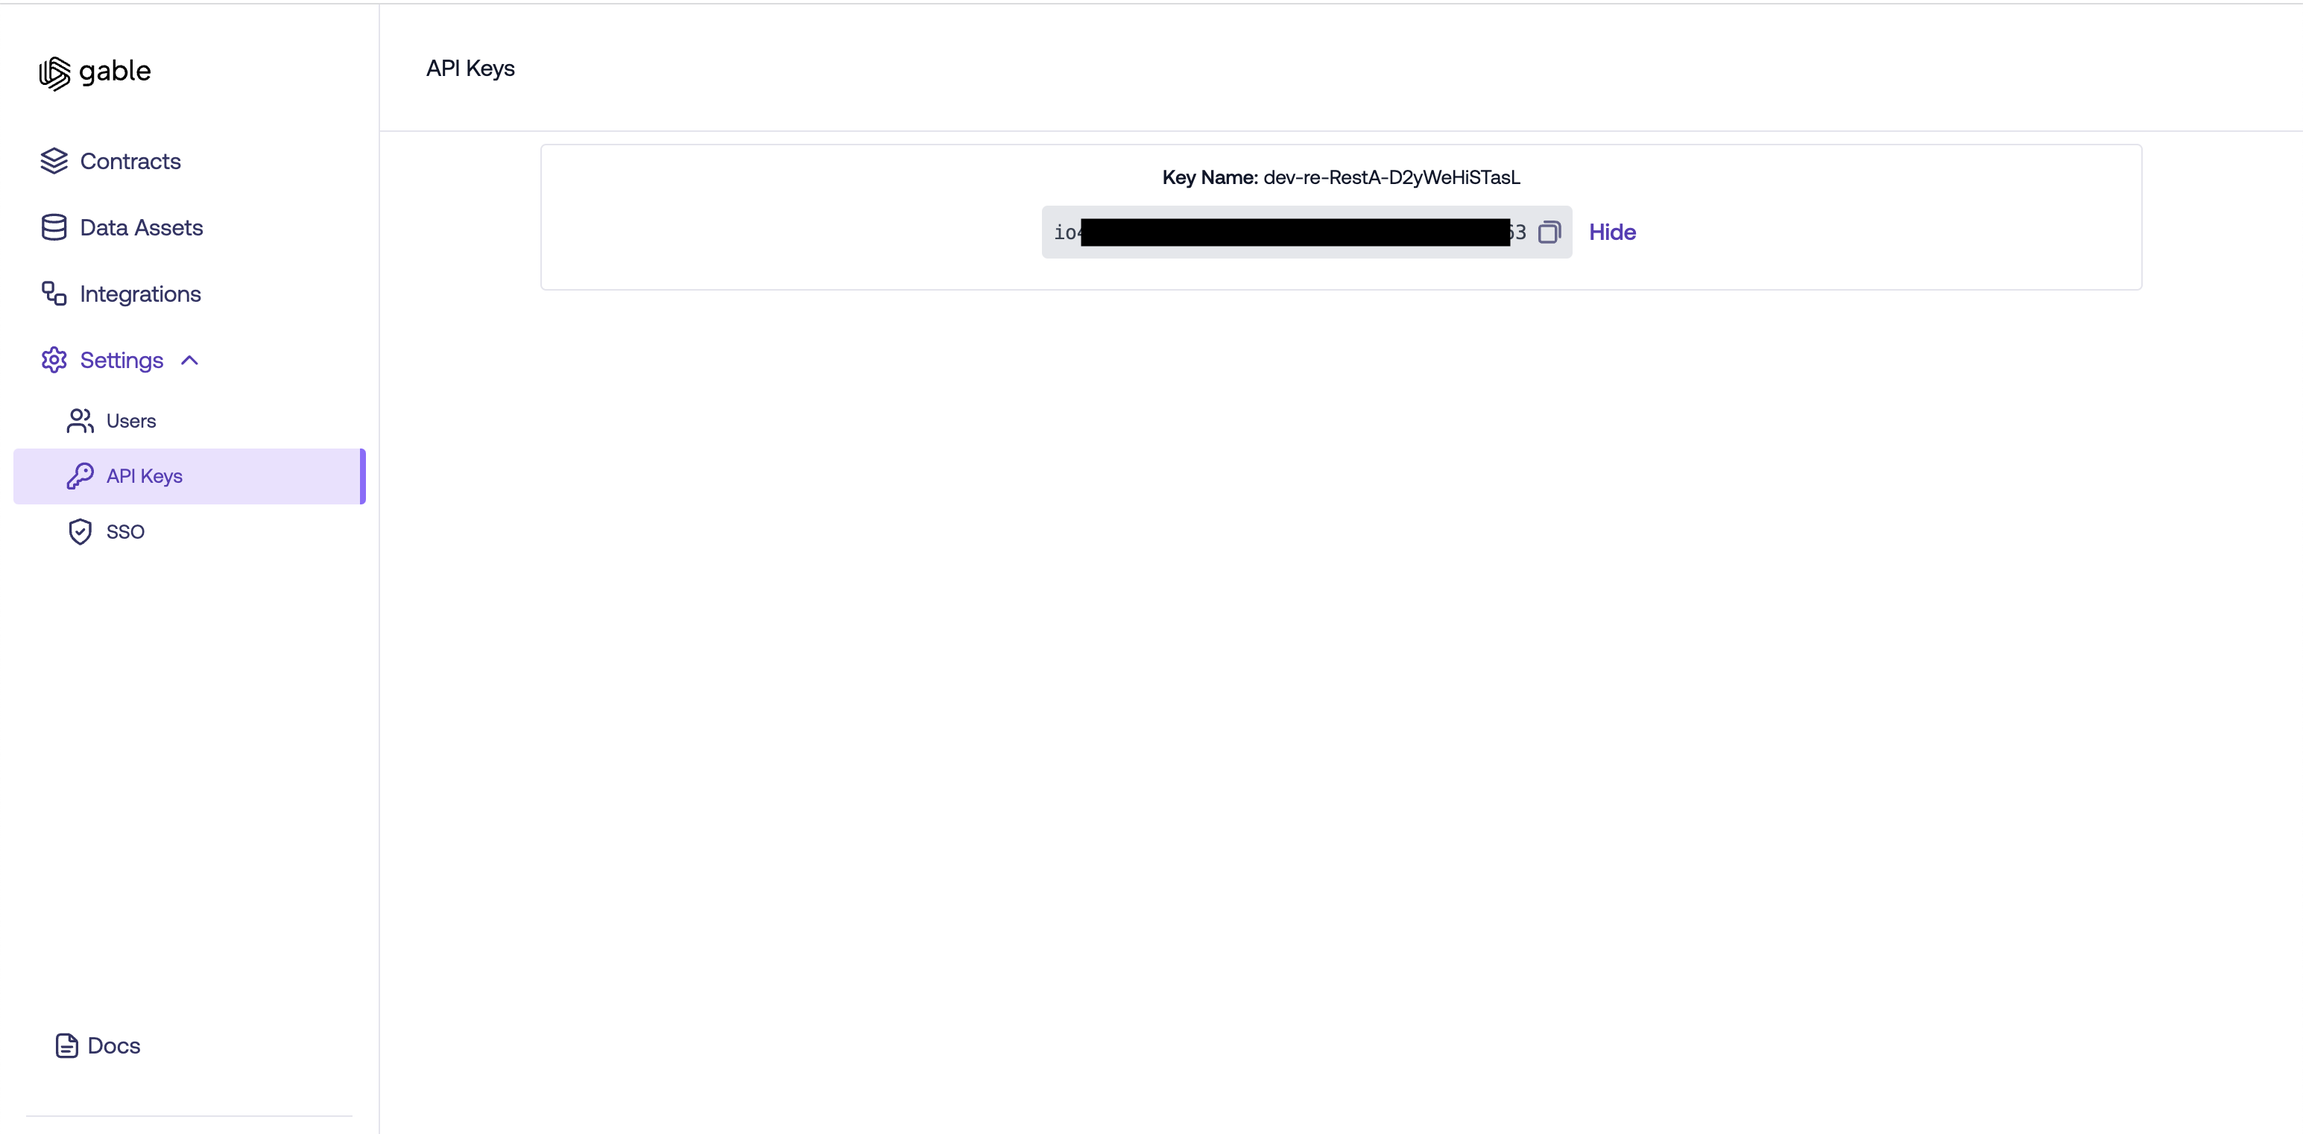
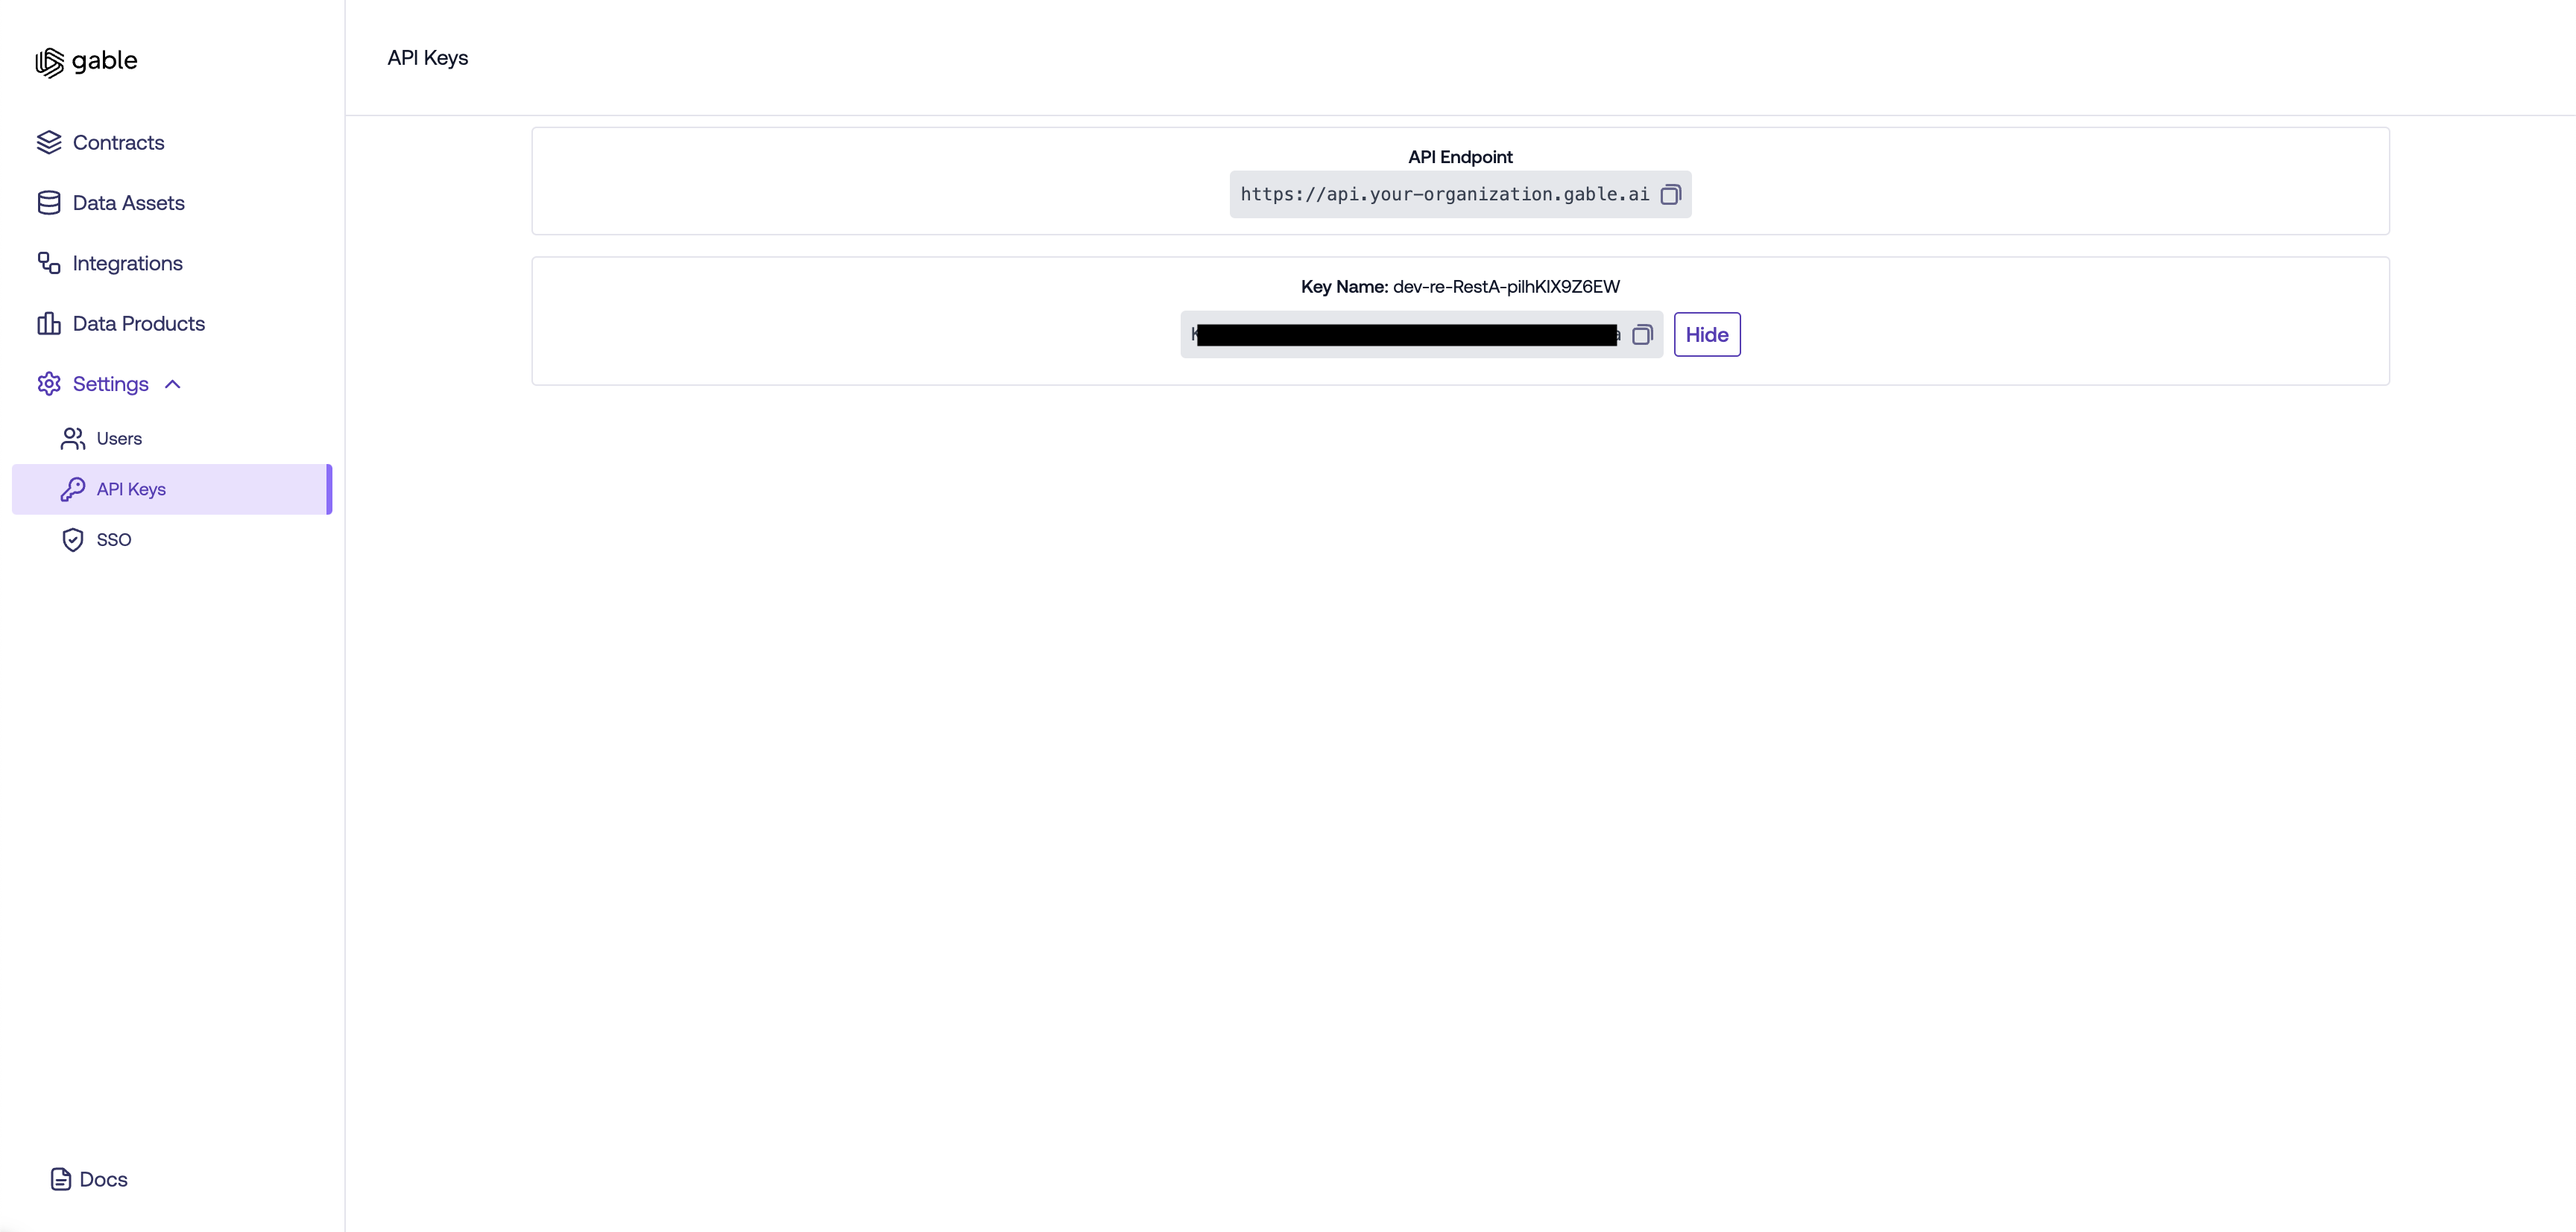
update README and photo to reflect api endpoint change

diff --git a/README.md b/README.md
@@ -34,12 +34,10 @@ Click on the "I understand my workflows, go ahead and enable them" button. This 
 
 In order to connect the Github Actions to Gable, you need:
 
-- The API endpoint associated with your organization, in the format:
-   - Production: `https://api.<organization>.gable.ai/`
-   - Sandbox: `https://api-sandbox.<organization>.gable.ai/`
+- The API endpoint associated with your organization
 - An API key that corresponds to the endpoint
 
-You can find your API key by navigating to the `Settings -> API Keys` page of Gable. Under API Keys you can click `View` to reveal your API key.
+You can find your API endpoint and key by navigating to the `Settings -> API Keys` page of Gable. Under API Keys you can click `View` to reveal your API key.
 
 ![Gable API Keys](./static/gable_settings_api_keys_page_example.png)
 
